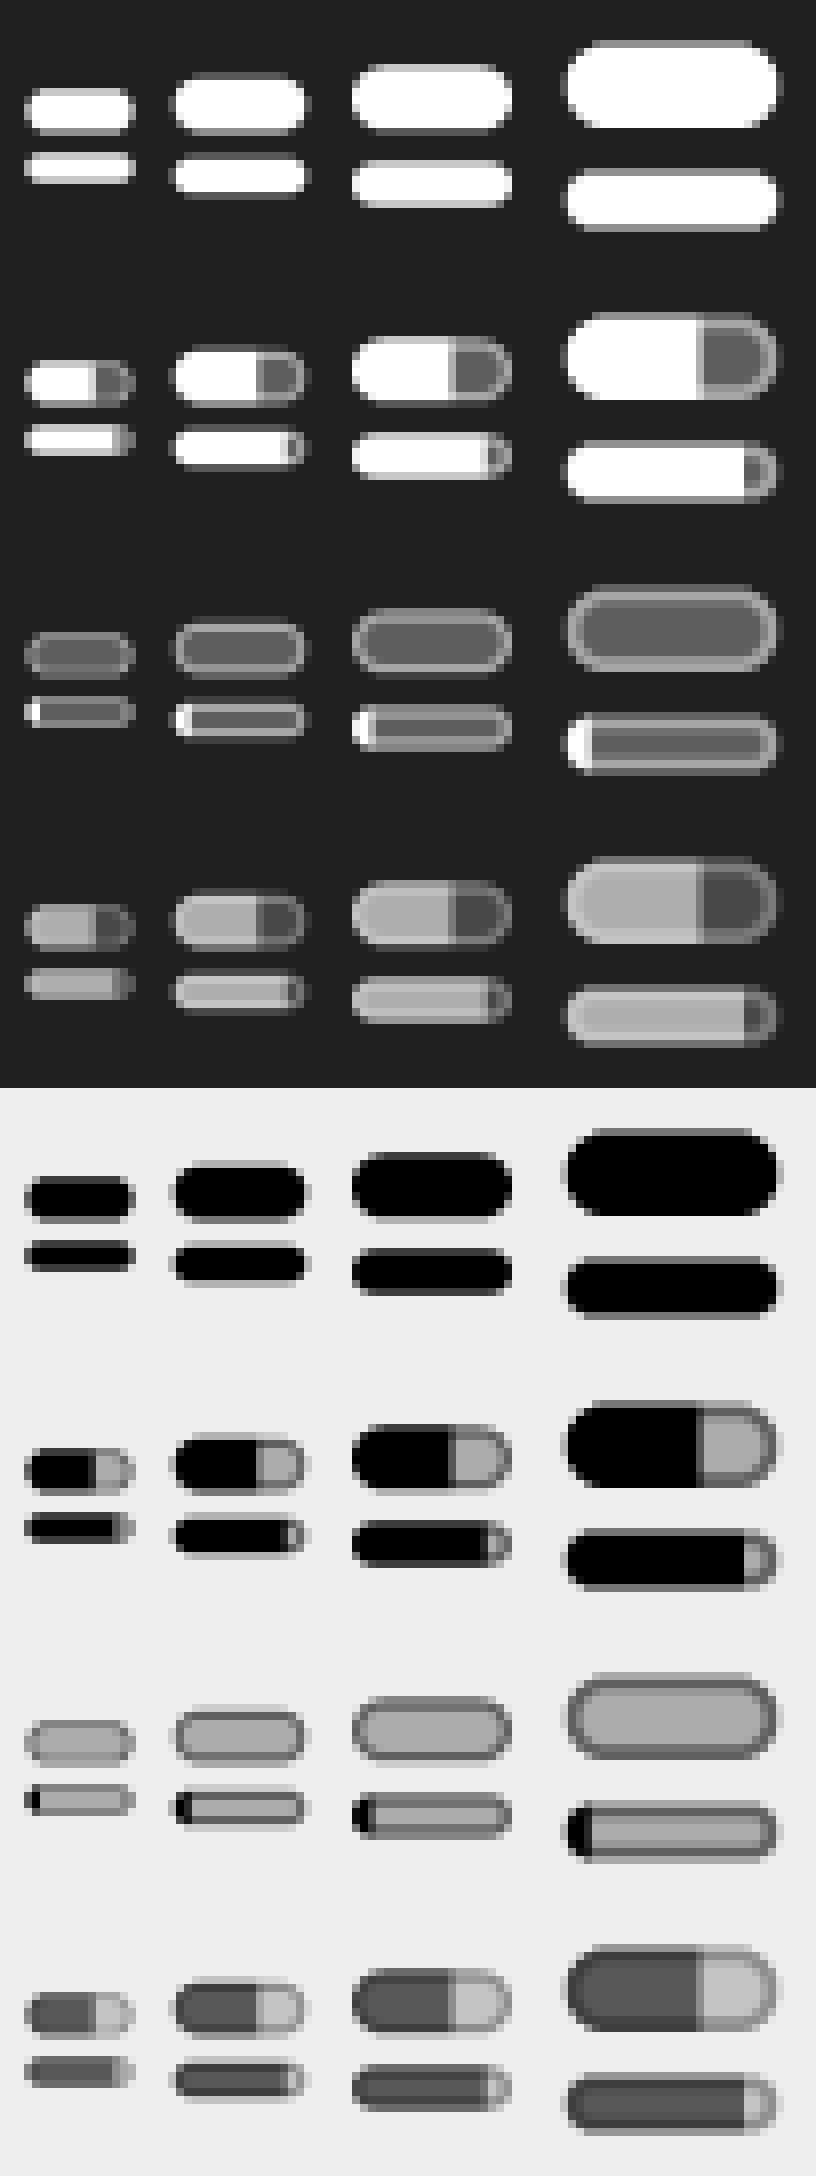
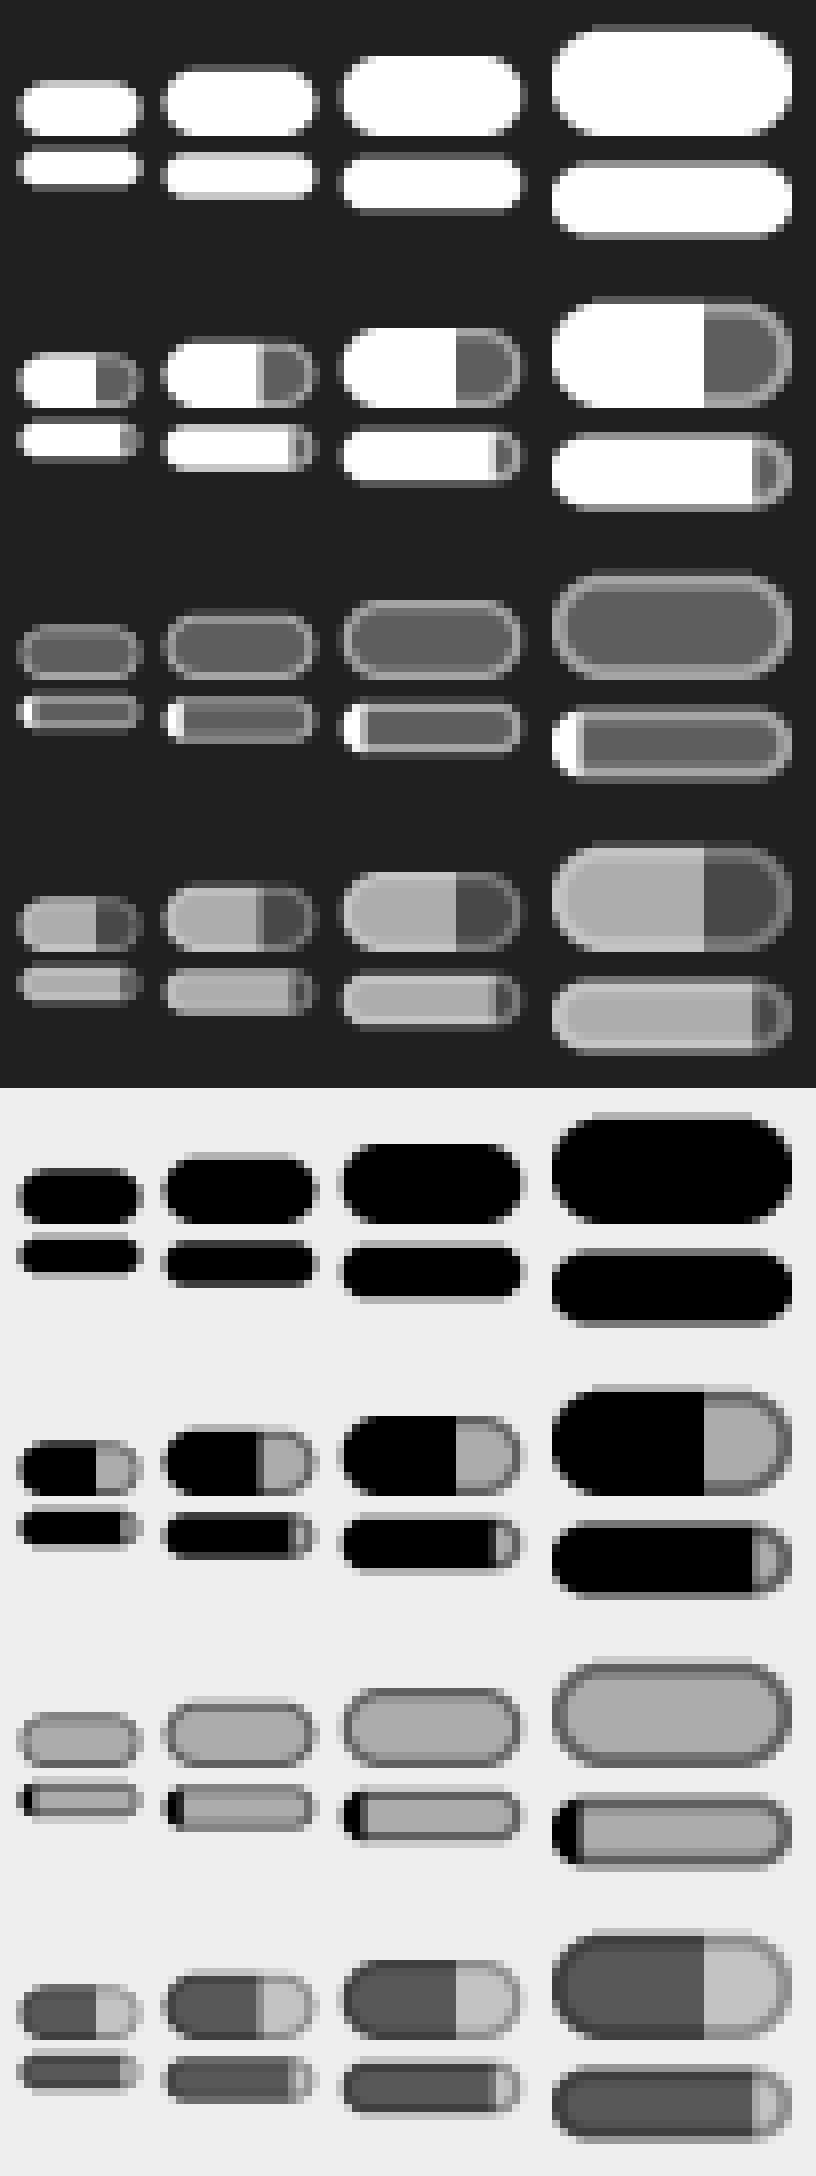
托盘图标放大到几乎铺满托盘格子，保持 CodexBar 的上粗下细比例

Changed region(s): [[0.0, 0.0, 0.6434, 1.0], [0.674, 0.0, 0.9804, 1.0]]

diff --git a/src/Tokenbar/Tray/TrayIconRenderer.cs b/src/Tokenbar/Tray/TrayIconRenderer.cs
@@ -10,7 +10,9 @@ namespace Tokenbar.Tray;
 internal static class TrayIconRenderer
 {
     private const double Canvas = 36;
-    private const double BarX = 3, BarW = 30;
+    // CodexBar insets the bars (x 3..33, y 5..31) to suit the macOS menu bar; the Windows tray
+    // slot has no such padding needs, so the meter fills nearly the whole square.
+    private const double BarX = 1, BarW = 34;
     private const double StrokeW = 2;
     private const int Supersample = 4;
 
@@ -33,10 +35,10 @@ internal static class TrayIconRenderer
 
     private static Bar[] Layout(double? primary, double? secondary)
     {
-        // y measured from the top of the canvas (CodexBar uses bottom-up AppKit coordinates).
-        var top = new Bar(36 - 31, 12, primary);
-        var bottom = new Bar(36 - 13, 8, secondary);
-        var single = new Bar(36 - 30, 16, primary ?? secondary);
+        // Keeps CodexBar's 3:2 thick-over-thin proportion, scaled up to the tray slot.
+        var top = new Bar(3, 15, primary);
+        var bottom = new Bar(22, 10, secondary);
+        var single = new Bar(8, 20, primary ?? secondary);
 
         if (primary is not null && secondary is not null) return [top, bottom];
         if (primary is null && secondary is null) return [top, bottom with { Alpha = 0.45 }];
